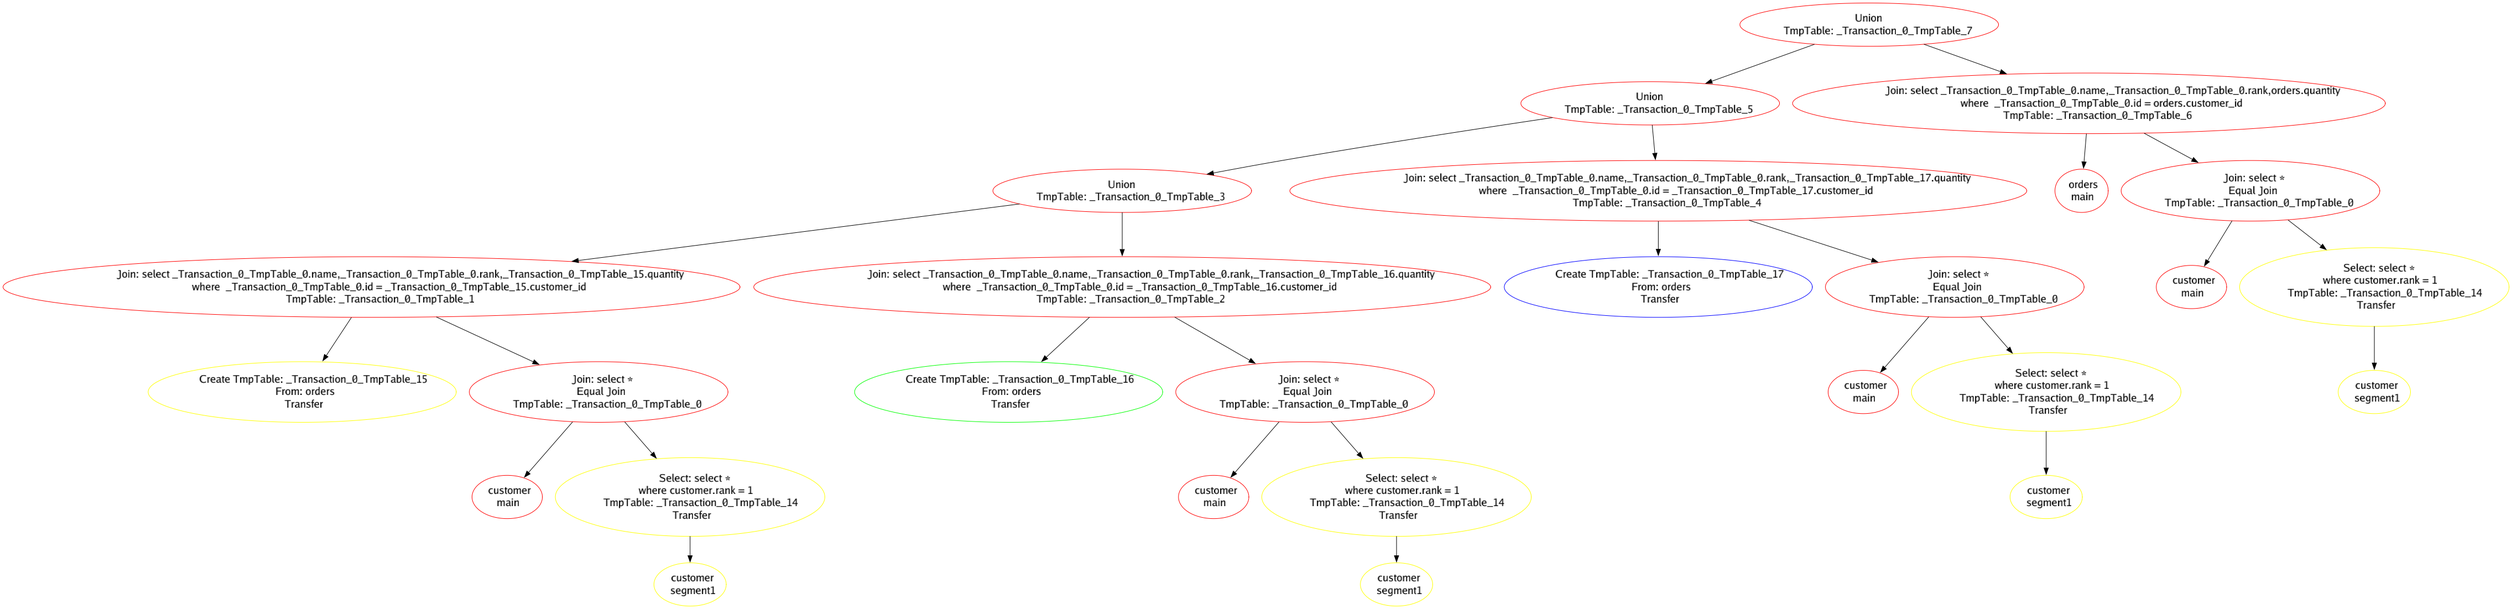
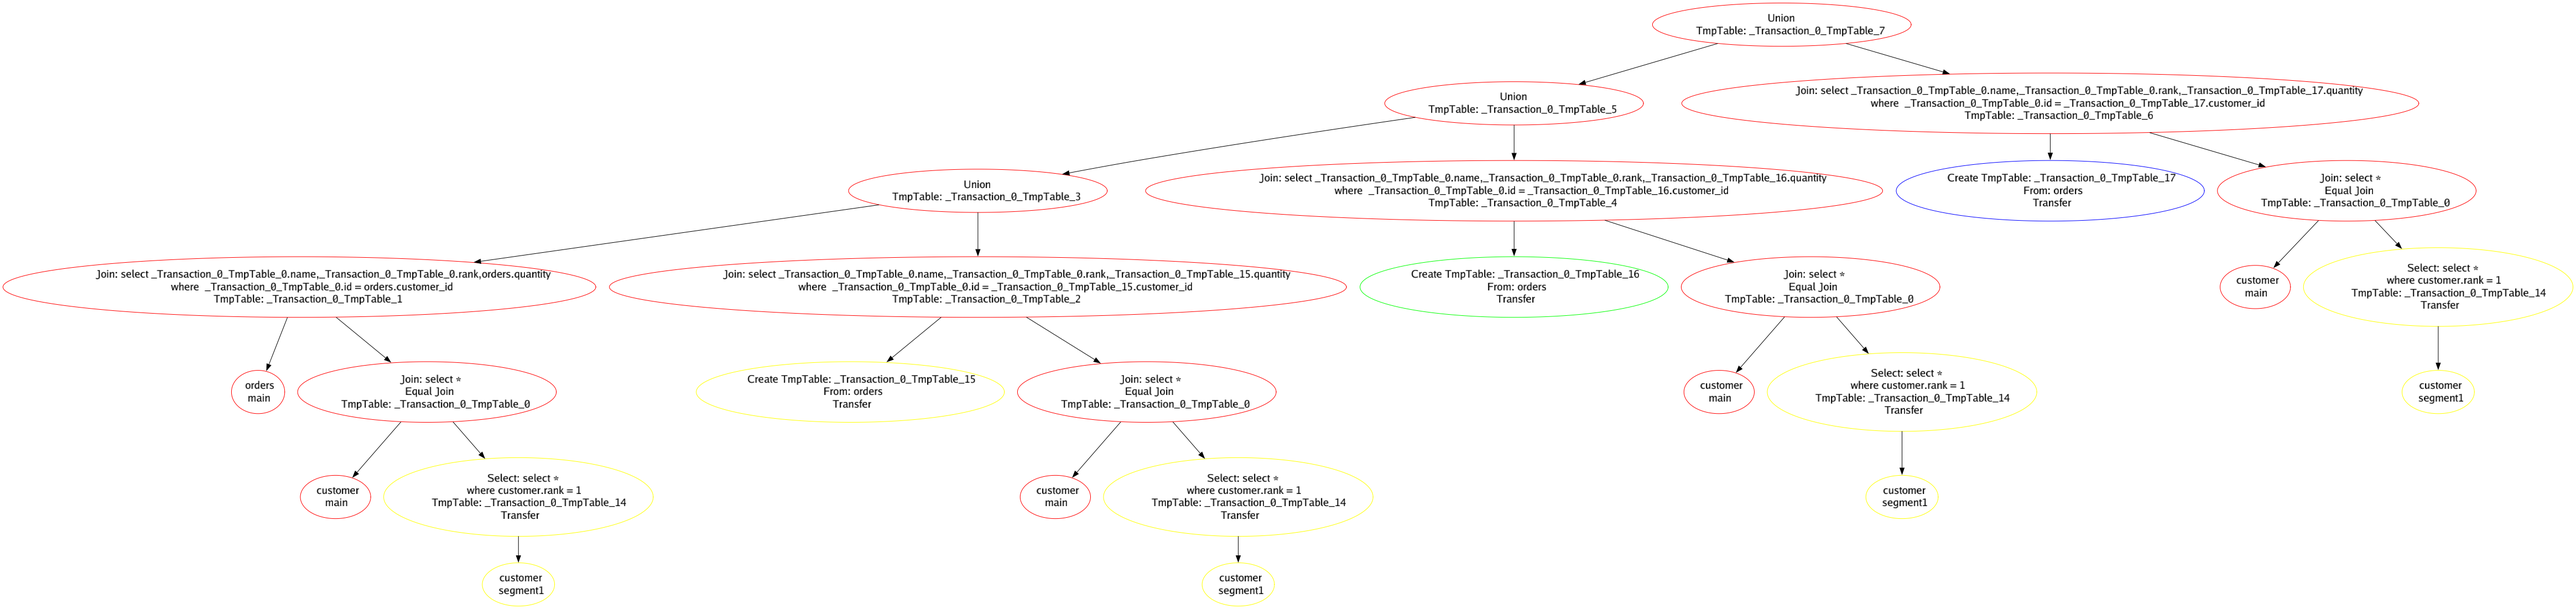
fix rename

diff --git a/optimizer/rule_column_prune.go b/optimizer/rule_column_prune.go
@@ -1,7 +1,6 @@
 package optimizer
 
 import (
-	"fmt"
 	"strconv"
 	"strings"
 
@@ -270,59 +269,11 @@ func prune_columns(pt *parser.PlanTree, beginNode int64, parentCols string, pare
 		for _, col := range usedCols {
 			// fmt.Println("col=", col)
 			// col = strings.ReplaceAll(col, " ", "")
-			leftEqualCol := ""
-			for _, lcol := range leftRelCols {
-				// fmt.Println("lcol=", lcol)
-
-				tableCol := strings.Split(lcol, ".")
-				if col == lcol || col == tableCol[1] {
-					// fmt.Println("left equal!")
-					subsetLeft += lcol + ","
-
-					// check if lcol is inside of whereClause
-					if _, ok := whereCols[lcol]; ok {
-						// replace table name with leftTmpTable
-						if len(tableCol) == 2 {
-							node.ExecStmtWhere = strings.Replace(node.ExecStmtWhere, lcol, leftTmpTable+"."+tableCol[1], -1)
-						} else if len(tableCol) == 1 {
-							node.ExecStmtWhere = strings.Replace(node.ExecStmtWhere, lcol, leftTmpTable+"."+tableCol[0], -1)
-						}
-					}
-
-					// replace table name with leftTmpTable -- fromClause
-					if len(tableCol) == 2 {
-						if val, ok := colsMap[tableCol[1]]; ok {
-							newVal := val + 1
-							colsMap[tableCol[1]] = newVal
-							newName := tableCol[1] + strconv.Itoa(newVal)
-							node.ExecStmtCols = strings.Replace(node.ExecStmtCols, lcol, leftTmpTable+"."+tableCol[1]+" as "+newName, -1)
-						} else {
-							colsMap[tableCol[1]] = 0
-							node.ExecStmtCols = strings.Replace(node.ExecStmtCols, lcol, leftTmpTable+"."+tableCol[1], -1)
-						}
-					} else {
-						if val, ok := colsMap[tableCol[0]]; ok {
-							newVal := val + 1
-							colsMap[tableCol[0]] = newVal
-							newName := tableCol[0] + strconv.Itoa(newVal)
-							node.ExecStmtCols = strings.Replace(node.ExecStmtCols, lcol, leftTmpTable+"."+tableCol[0]+" as "+newName, -1)
-						} else {
-							colsMap[tableCol[0]] = 0
-							node.ExecStmtCols = strings.Replace(node.ExecStmtCols, lcol, leftTmpTable+"."+tableCol[0], -1)
-						}
-					}
-					// fmt.Println("node.ExecStmtWhere (after) = ", node.ExecStmtWhere)
-					leftEqualCol = lcol
-					break
-				}
-			}
+			rightEqualCol := ""
 
 			for _, rcol := range rightRelCols {
 				// fmt.Println("rcol=", rcol)
 				tableCol := strings.Split(rcol, ".")
-				if leftEqualCol == rcol { // means vertical fragments' primary key, skip it
-					continue
-				}
 				if col == rcol || col == tableCol[1] { // col contains tableName or not
 					// fmt.Println("right equal!")
 					subsetRight += rcol + ","
@@ -367,11 +318,60 @@ func prune_columns(pt *parser.PlanTree, beginNode int64, parentCols string, pare
 							node.ExecStmtCols = strings.ReplaceAll(node.ExecStmtCols, rcol, rightTmpTable+"."+tableCol[0])
 						}
 					}
+					rightEqualCol = rcol
+					break
+				}
+			}
+
+			for _, lcol := range leftRelCols {
+				// fmt.Println("lcol=", lcol)
+
+				tableCol := strings.Split(lcol, ".")
+				if rightEqualCol == lcol { // means vertical fragments' primary key, skip it
+					continue
+				}
+				if col == lcol || col == tableCol[1] {
+					// fmt.Println("left equal!")
+					subsetLeft += lcol + ","
+
+					// check if lcol is inside of whereClause
+					if _, ok := whereCols[lcol]; ok {
+						// replace table name with leftTmpTable
+						if len(tableCol) == 2 {
+							node.ExecStmtWhere = strings.Replace(node.ExecStmtWhere, lcol, leftTmpTable+"."+tableCol[1], -1)
+						} else if len(tableCol) == 1 {
+							node.ExecStmtWhere = strings.Replace(node.ExecStmtWhere, lcol, leftTmpTable+"."+tableCol[0], -1)
+						}
+					}
+
+					// replace table name with leftTmpTable -- fromClause
+					if len(tableCol) == 2 {
+						if val, ok := colsMap[tableCol[1]]; ok {
+							newVal := val + 1
+							colsMap[tableCol[1]] = newVal
+							newName := tableCol[1] + strconv.Itoa(newVal)
+							node.ExecStmtCols = strings.Replace(node.ExecStmtCols, lcol, leftTmpTable+"."+tableCol[1]+" as "+newName, -1)
+						} else {
+							colsMap[tableCol[1]] = 0
+							node.ExecStmtCols = strings.Replace(node.ExecStmtCols, lcol, leftTmpTable+"."+tableCol[1], -1)
+						}
+					} else {
+						if val, ok := colsMap[tableCol[0]]; ok {
+							newVal := val + 1
+							colsMap[tableCol[0]] = newVal
+							newName := tableCol[0] + strconv.Itoa(newVal)
+							node.ExecStmtCols = strings.Replace(node.ExecStmtCols, lcol, leftTmpTable+"."+tableCol[0]+" as "+newName, -1)
+						} else {
+							colsMap[tableCol[0]] = 0
+							node.ExecStmtCols = strings.Replace(node.ExecStmtCols, lcol, leftTmpTable+"."+tableCol[0], -1)
+						}
+					}
+					// fmt.Println("node.ExecStmtWhere (after) = ", node.ExecStmtWhere)
 					break
 				}
 			}
 		}
-		fmt.Println("colsMap = ", colsMap)
+		// fmt.Println("colsMap = ", colsMap)
 		subsetLeft = strings.TrimSuffix(subsetLeft, ",")
 		subsetRight = strings.TrimSuffix(subsetRight, ",")
 

diff --git a/main.go b/main.go
@@ -3,6 +3,7 @@ package main
 import (
 	"fmt"
 
+	"github.com/FiGHtDDB/optimizer"
 	"github.com/FiGHtDDB/parser"
 	"github.com/FiGHtDDB/storage"
 )
@@ -188,4 +189,142 @@ func main() {
 	fmt.Println(st.FragSchema[3].Conditions[0].Col)
 	fmt.Println(st.FragSchema[1].Conditions[1].Value)
 	fmt.Println(st.FragSchema[2].Conditions[0].Comp)
+
+	var queries [25]string
+	queries[0] = `
+	select *
+	from customer`
+
+	queries[1] = `
+	select publisher.name
+	from publisher`
+
+	queries[2] = `
+	select book.title
+	from book
+	where copies>5000`
+
+	queries[3] = `
+	select orders.customer_id,quantity
+	from orders
+	where quantity<8`
+
+	queries[4] = `
+	select book.title, book.copies, publisher.name, publisher.nation
+	from book, publisher
+	where book.publisher_id = publisher.id
+	and publisher.nation='USA'
+	and book.copies>1000`
+
+	queries[5] = `
+	select customer.name, orders.quantity
+	from customer,orders
+	where customer.id=orders.customer_id`
+
+	queries[6] = `
+	select customer.name, customer.rank, orders.quantity
+	from customer,orders
+	where customer.id=orders.customer_id
+	and customer.rank=1`
+
+	queries[7] = `
+	select customer.name, orders.quantity, book.title
+	from customer,orders,book
+	where customer.id=orders.customer_id
+	and book.id=orders.book_id
+	and customer.rank=1
+	and book.copies>5000`
+
+	queries[8] = `
+	select customer.name, book.title, publisher.name, orders.quantity
+	from customer, book, publisher, orders
+	where customer.id=orders.customer_id
+	and book.id=orders.book_id
+	and book.publisher_id=publisher.id
+	and book.id>220000
+	and publisher.nation='USA'
+	and orders.quantity>1`
+
+	queries[9] = `
+	select customer.name, book.title, publisher.name, orders.quantity
+	from customer, book, publisher, orders
+	where customer.id=orders.customer_id
+	and book.id=orders.book_id
+	and book.publisher_id=publisher.id
+	and customer.id>308000
+	and book.copies>100
+	and orders.quantity>1
+	and publisher.nation='PRC'`
+
+	queries[10] = `
+	select customer.name, book.title, publisher.name, orders.quantity 
+	from customer, book, publisher, orders 
+	where customer.id=orders.customer_id 
+	and book.id=orders.book_id 
+	and book.publisher_id=publisher.id 
+	and book.id > 207000 
+	and book.id < 213000 
+	and book.copies>100 
+	and orders.quantity>1 
+	and publisher.nation='PRC'
+	`
+	queries[11] = `
+	insert into customer(id, name, rank) 
+	values(300001, 'Xiaoming', 1);`
+
+	queries[12] = `
+	insert into publisher(id, name, nation) 
+	values(104001,'High Education Press', 'PRC')`
+
+	queries[13] = `
+	insert into customer(id, name, rank) 
+	values(300002,'Xiaohong', 1)`
+
+	queries[14] = `
+	insert into book (id, title, authors, publisher_id, copies) 
+	values(205001, 'DDB', 'Oszu', 104001, 100)`
+
+	queries[15] = `
+	insert into orders (customer_id, book_id, quantity) 
+	values(300001, 205001,5)`
+
+	queries[16] = `
+	delete from orders`
+
+	queries[17] = `
+	Delete from book 
+	where copies = 100`
+
+	queries[18] = `
+	delete from publisher 
+	where nation = 'PRC'`
+
+	queries[19] = `delete from customer 
+	where name='Xiaohong' AND rank=1`
+
+	queries[20] = `
+	delete from customer 
+	where rank = 1`
+
+	queries[21] = `
+	create table test(id int key, name char(100))`
+
+	for i := 6; i <= 6; i++ {
+		fmt.Println("*************", i, "***************")
+		var txnId int64 = 0
+		planTree := parser.Parse(queries[i], txnId)
+		planTree.Analyze()
+		planTree.DrawPlanTree(i, "1")
+		planTree = optimizer.Optimize(planTree)
+		planTree.DrawPlanTree(i, "2")
+		planTree.DrawPlanTreeTmpTable(i, "tmp")
+		// planTree.Print()
+		// if planTree.Root >= 0 && planTree.Nodes[planTree.Root].NodeType != 6 {
+		// 	printTree(planTree.Nodes[planTree.Root], planTree, 0)
+		// } else {
+		// 	fmt.Println("No plan tree available")
+		// }
+		// fmt.Println(planTree.Nodes[12].TmpTable)
+		// os.Exit(0)
+	}
 }
